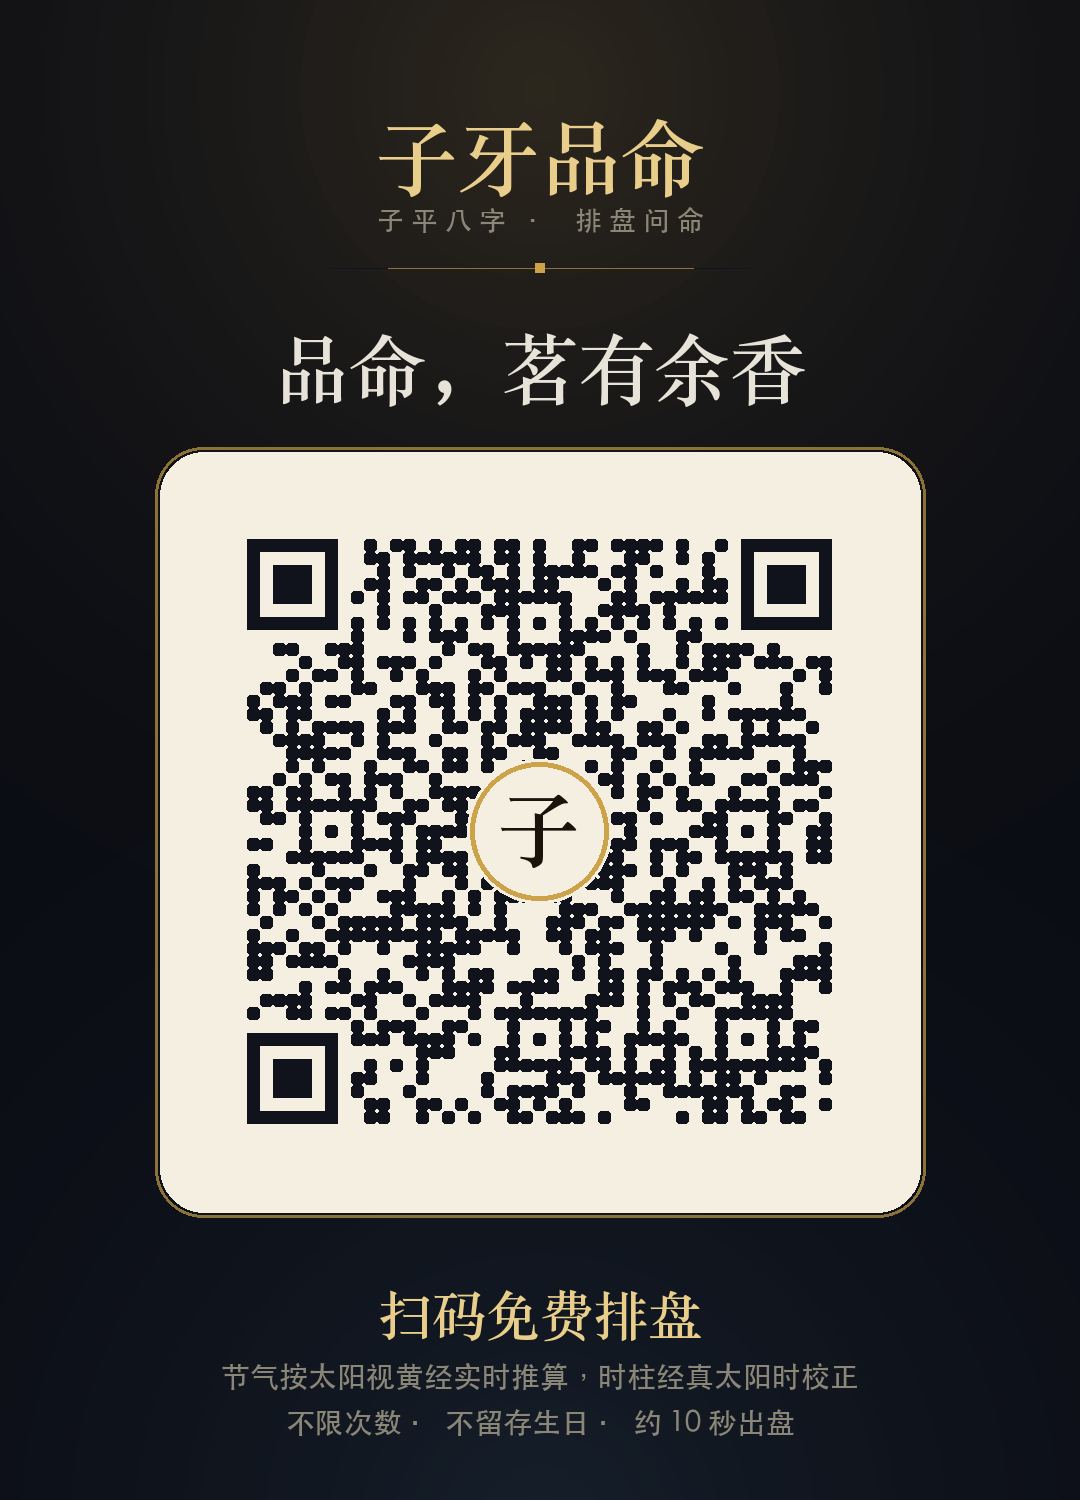
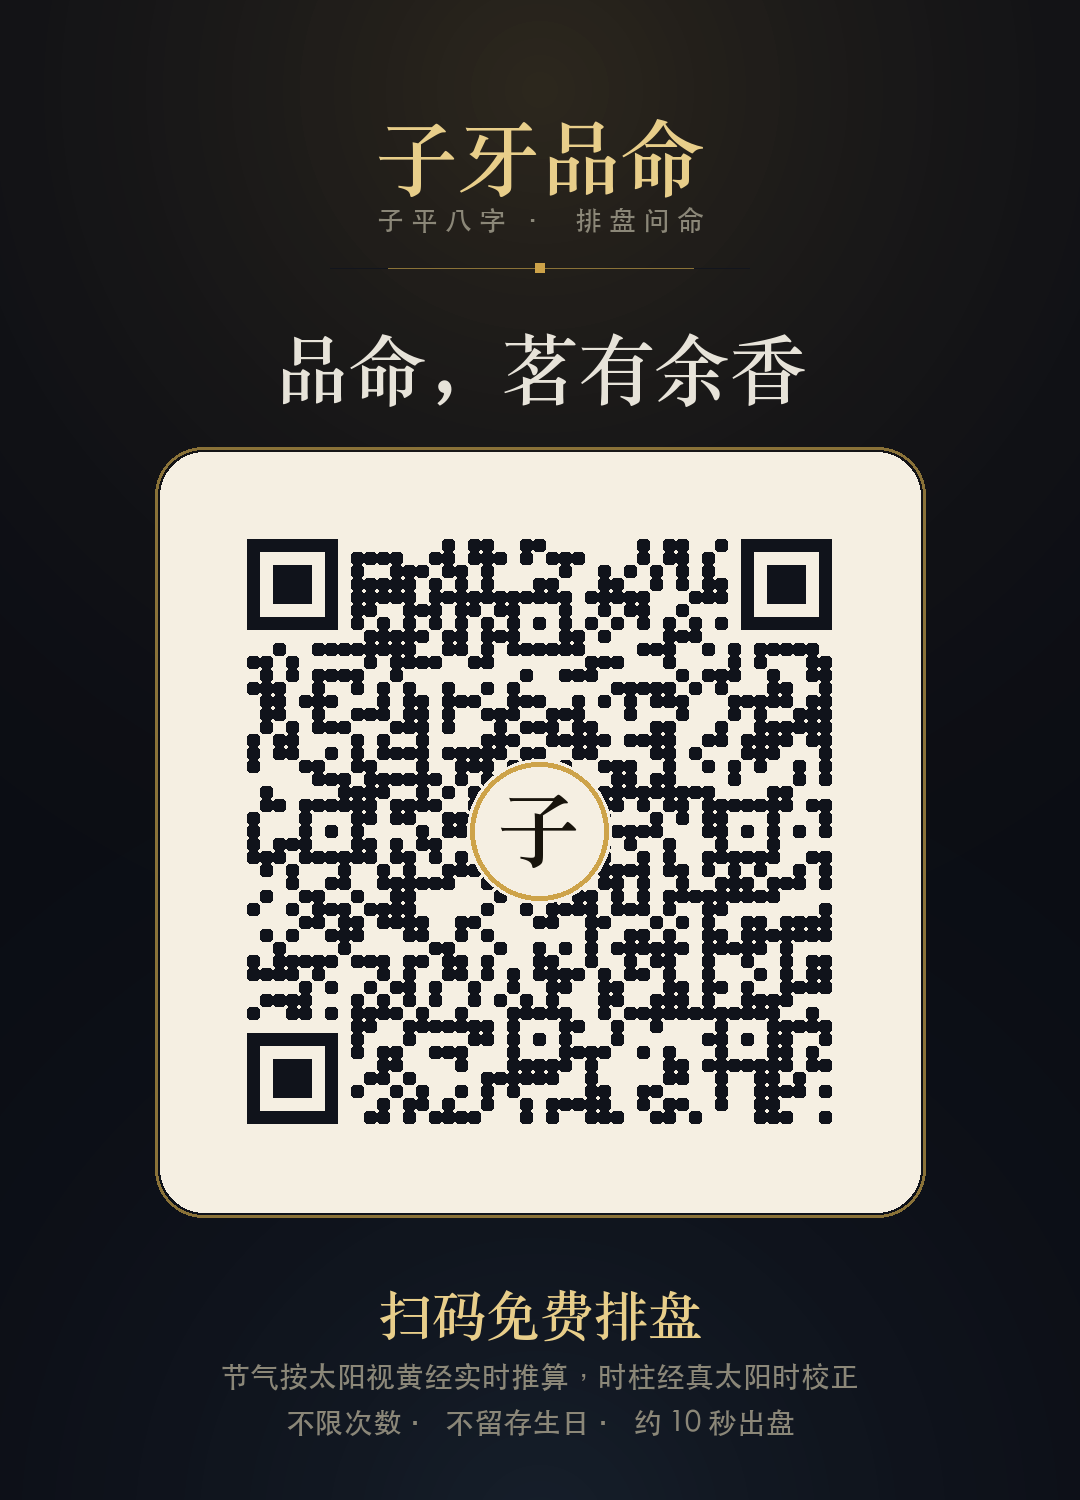
站点地址更新为新服务域名，并重做二维码
旧域名 ziyapinming-288718-… 已被网关判为 INVALID_HOST（请求到不了容器），
更早的两个域名则是 SERVICE_FORBIDDEN「server is isolated」。也就是说此前
发出去的二维码全部指向死链。

现地址：ziyapinmingzw-288718-10-1460102831.sh.run.tcloudbase.com（实测 200）。
只改了 config.SITE_URL 一处，二维码与海报由 tools/make_qr.py 重新生成——
上一个提交把地址收敛到单一来源，正是为了避免这种时候漏改。

Changed region(s): [[0.2139, 0.3373, 0.7944, 0.7667]]

diff --git a/config.py b/config.py
@@ -29,7 +29,7 @@ STATIC_DIR = BASE_DIR / "static"
 # 改完这里，重新跑一次 `.venv/bin/python tools/make_qr.py` 即可更新二维码。
 SITE_URL = os.environ.get(
     "SITE_URL",
-    "https://ziyapinming-288718-10-1460102831.sh.run.tcloudbase.com",
+    "https://ziyapinmingzw-288718-10-1460102831.sh.run.tcloudbase.com",
 ).rstrip("/")
 
 # ── 微信引流（必改）──────────────────────────────────────────
